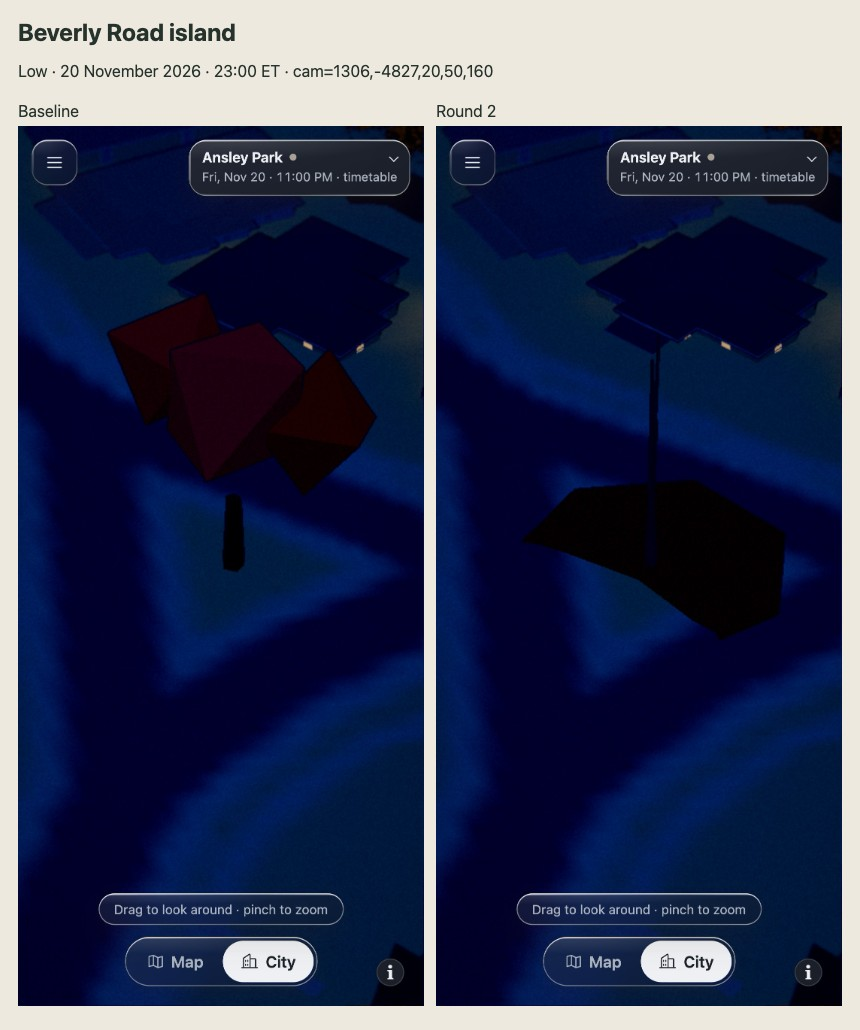
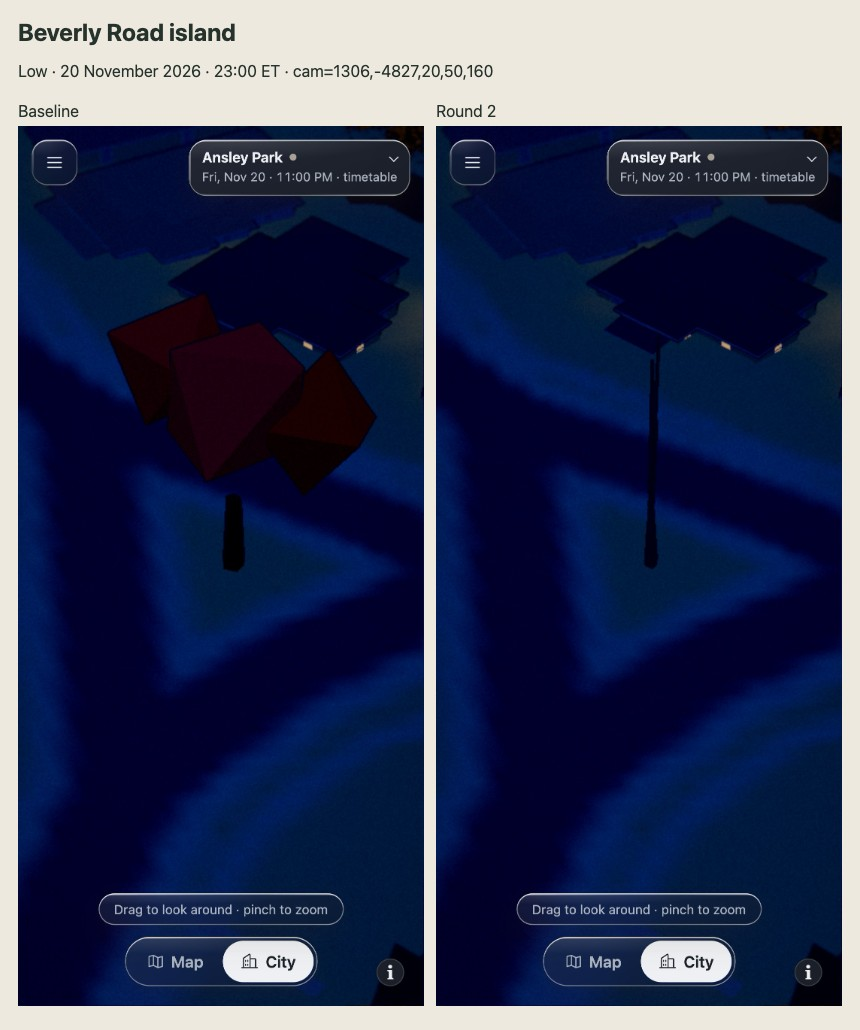
Keep the Beverly elm leaf carpet off the roadway

Changed region(s): [[0.6047, 0.466, 0.9372, 0.6214]]

diff --git a/web/src/trees/rollout.ts b/web/src/trees/rollout.ts
@@ -73,7 +73,7 @@ const PARKLIKE = new Set(['park', 'garden', 'cemetery', 'wood', 'forest', 'natur
  */
 const STREET_M = 7;
 
-export interface PlacedSpecies { species: RolloutSpecies; x: number; z: number; heightM: number; spreadM: number; size: 'mature' | 'specimen'; seed: number }
+export interface PlacedSpecies { carpet?: false; species: RolloutSpecies; x: number; z: number; heightM: number; spreadM: number; size: 'mature' | 'specimen'; seed: number }
 export interface RolloutPlan {
   /** Canopy-map crowns now drawn as a species (keys from crownKey). */
   replaced: Set<string>;
@@ -174,7 +174,7 @@ export function planRollout({ crowns, roads, ground = [], buildings = [], bounds
       // One large hardwood at the centre (the generic broadleaf, at specimen size).
       const big: Crown = [isl.cx, isl.cz, 24, Math.min(10, Math.sqrt(isl.area / Math.PI) + 4)];
       if (places && roundTwo?.id === 'brookwood-south' && Math.hypot(isl.cx - 1306, isl.cz + 4827) < 4) {
-        plan.species.push({ species: 'american-elm', x: isl.cx, z: isl.cz, heightM: big[2],
+        plan.species.push({ species: 'american-elm', carpet: false, x: isl.cx, z: isl.cz, heightM: big[2],
           spreadM: 2 * big[3], size: 'specimen', seed: positionSeed(isl.cx, isl.cz) });
         places--;
         continue;

diff --git a/web/src/trees/rollout-city.ts b/web/src/trees/rollout-city.ts
@@ -236,7 +236,7 @@ export function rolloutSpecies(plan: ReturnType<typeof rolloutRow>['plan'], qual
     // Some gardens already paint their leaf cover. Suppress intersecting discs entirely:
     // no flat carpet over hard surfaces and no extra low-tier clipping geometry.
     const radius = treeDims(p).spreadM / 2 * 1.1;
-    const carpet = !carpetExclusions.some(ring => pointInRing(p.x,p.z,ring)
+    const carpet = s.carpet !== false && !carpetExclusions.some(ring => pointInRing(p.x,p.z,ring)
       || ring.some((a,i) => segDist(p.x,p.z,a,ring[(i+1)%ring.length]) <= radius));
     return [{ species: s.species, p, y, carpet }];
   });

diff --git a/web/src/trees/rollout.test.ts b/web/src/trees/rollout.test.ts
@@ -47,7 +47,7 @@ describe('tree rollout plan', () => {
       if (row === 'brookwood-south') {
         const island = low.filter(s => Math.hypot(s.x - 1306, s.z + 4827) < 4);
         expect(island).toHaveLength(1);
-        expect(island[0]).toMatchObject({ species: 'american-elm', size: 'specimen' });
+        expect(island[0]).toMatchObject({ species: 'american-elm', size: 'specimen', carpet: false });
       }
     }
     expect(counts.size).toBe(6);

diff --git a/docs/build-log.md b/docs/build-log.md
@@ -3030,8 +3030,11 @@ building and eight suspended globes trace the approach to the lobby.
 ### 2026-11-23 — The second copy of the bridge
 
 With all 12 areas loaded, three fresh Chrome runs held 571 MB after garbage collection on High. Deck and ballast builders still held their original JavaScript arrays after Three.js copied the same positions, colours and track UVs into mesh attributes. Emptying those scratch arrays once construction finishes brought High to 495 MB and Low to 389 MB. The deck-height queries still read the mesh positions, and the 17th Street Bridge still lights its piers at night. Camera `-28,-4184,12,65,540`. [Day](log/phone/transport-heap-day.jpg) · [Night](log/phone/transport-heap-night.jpg)
+
 ### 2026-11-23 — Six more species in Midtown and Ansley
 
-The first 300 replacements include 89 willow oaks, 83 water oaks, 51 southern magnolias, 41 white oaks, 19 flowering dogwoods and 17 American elms. The Beverly Road island has a specimen elm. On November 20 its bare crown makes the leaf carpet especially visible. At low detail the integrated all-12-area default view adds 8 draw calls and 1,117 submitted triangles. The pan adds 9 calls and 1,701 triangles. Both comparisons use the same 384 × 692 drawing buffer.
+The first 300 replacements include 89 willow oaks, 83 water oaks, 51 southern magnolias, 41 white oaks, 19 flowering dogwoods and 17 American elms. The Beverly Road island has a specimen elm. On November 20 the elm is bare. Its leaf carpet crossed the island curb, so we removed the carpet for this planting at both tiers. At low detail the integrated all-12-area default view adds 8 draw calls and 1,117 submitted triangles. The pan adds 9 calls and 1,701 triangles. Both comparisons use the same 384 × 692 drawing buffer.
 
 [The Prado by day](log/ui/tree-species/round-two/prado-day.jpg) and [at night](log/ui/tree-species/round-two/prado-night.jpg) use camera 1194,-4352,20,50,420. [Beverly by day](log/ui/tree-species/round-two/beverly-day.jpg) and [at night](log/ui/tree-species/round-two/beverly-night.jpg) use 1306,-4827,20,50,160. These are illustrative replacements at the existing canopy positions.
+
+On the Galaxy A16 the default view measured 23.2 fps for the baseline and 23.9 fps for the frozen tranche. Pan runs ranged from 11.9 to 25.6 fps across the three configurations and the harness lost its CDP connection during testing. The coordinator accepted the default result and deferred the pan comparison to the next release candidate.
